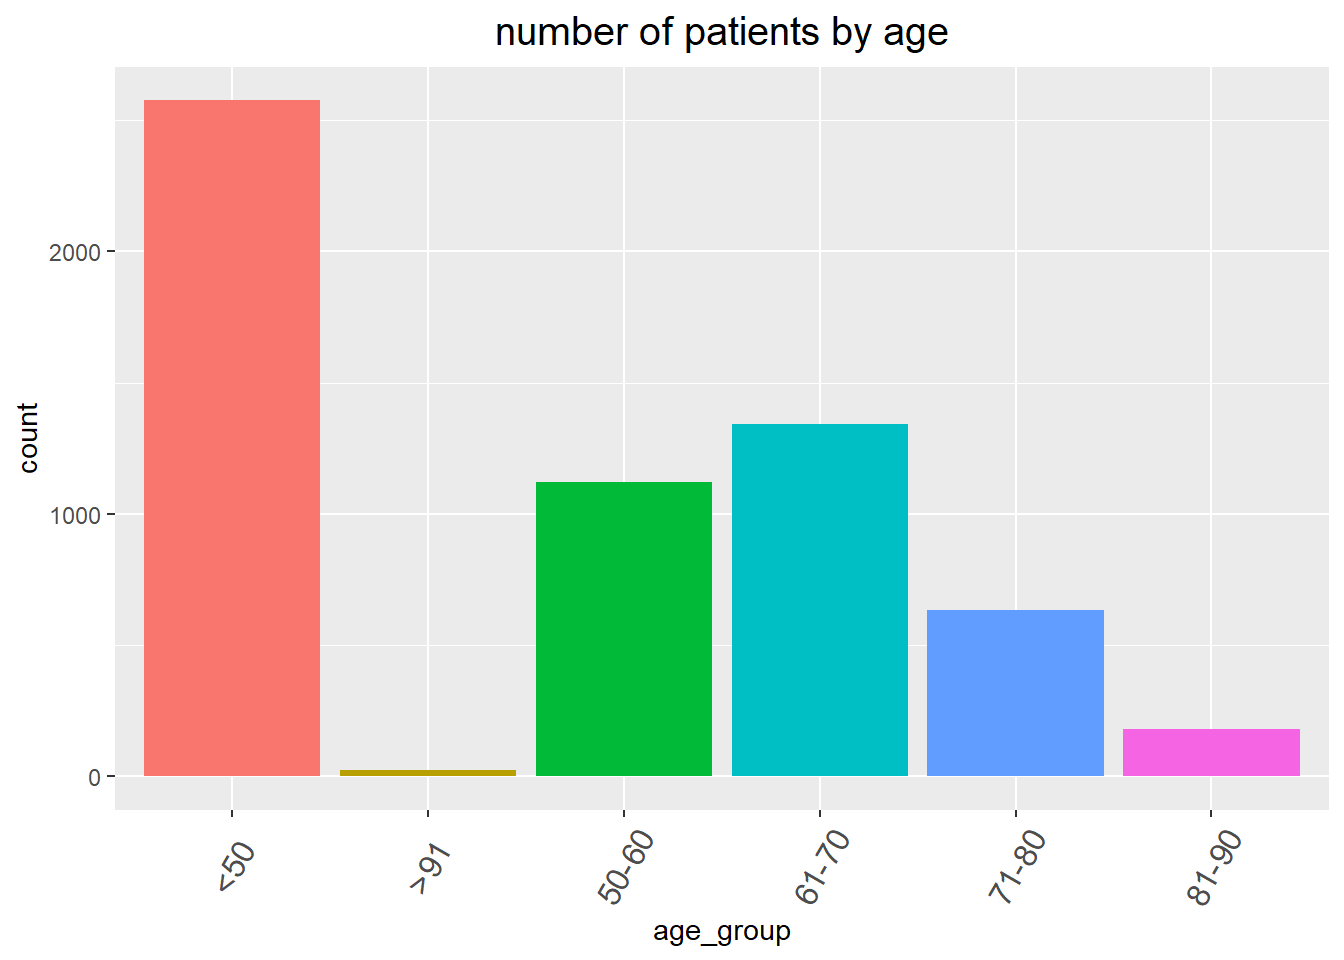
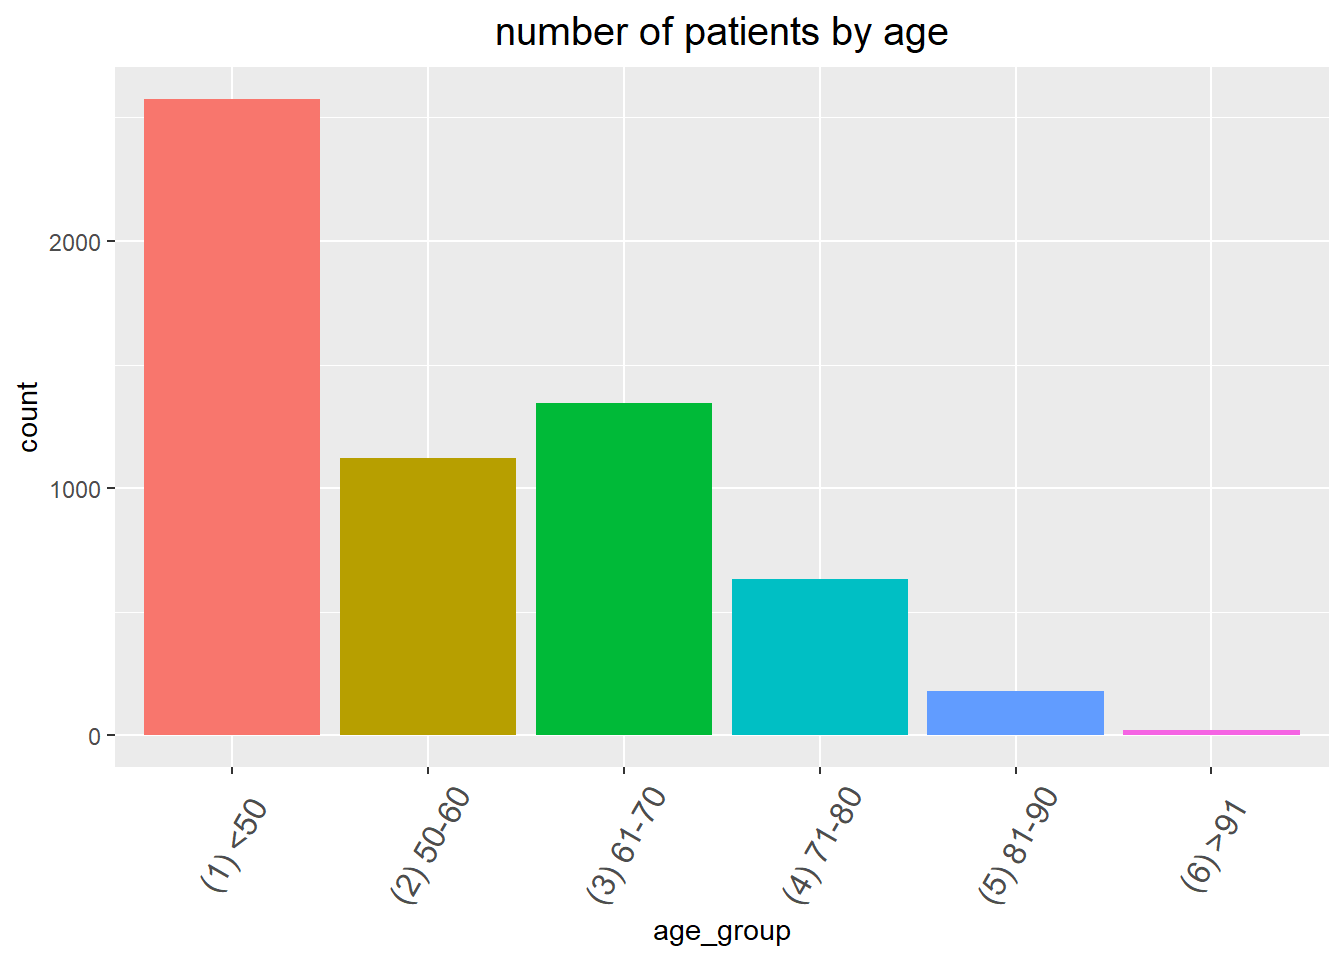
3/7/2022

diff --git a/docs/2022_Feb4.html b/docs/2022_Feb4.html
@@ -474,16 +474,16 @@ This reproducible <a href="https://rmarkdown.rstudio.com">R Markdown</a> analysi
 <div class="panel panel-default">
 <div class="panel-heading">
 <p class="panel-title">
-<a data-toggle="collapse" data-parent="#workflowr-checks" href="#strongRepositoryversionstrongahrefhttpsgithubcomhan16Collaborationstree7e83a630744600ccebd4cd4310cd0b8daa8d2c15targetblank7e83a63a"> <span class="glyphicon glyphicon-ok text-success" aria-hidden="true"></span> <strong>Repository version:</strong> <a href="https://github.com/han16/Collaborations/tree/7e83a630744600ccebd4cd4310cd0b8daa8d2c15" target="_blank">7e83a63</a> </a>
+<a data-toggle="collapse" data-parent="#workflowr-checks" href="#strongRepositoryversionstrongahrefhttpsgithubcomhan16Collaborationstree6b7dda0b44b13ae4c43b1514b40e0a5aa27f3218targetblank6b7dda0a"> <span class="glyphicon glyphicon-ok text-success" aria-hidden="true"></span> <strong>Repository version:</strong> <a href="https://github.com/han16/Collaborations/tree/6b7dda0b44b13ae4c43b1514b40e0a5aa27f3218" target="_blank">6b7dda0</a> </a>
 </p>
 </div>
[2 lines of base64/hex data omitted]
 <div class="panel-body">
 <p>
 Great! You are using Git for version control. Tracking code development and connecting the code version to the results is critical for reproducibility.
 </p>
 <p>
-The results in this page were generated with repository version <a href="https://github.com/han16/Collaborations/tree/7e83a630744600ccebd4cd4310cd0b8daa8d2c15" target="_blank">7e83a63</a>. See the <em>Past versions</em> tab to see a history of the changes made to the R Markdown and HTML files.
+The results in this page were generated with repository version <a href="https://github.com/han16/Collaborations/tree/6b7dda0b44b13ae4c43b1514b40e0a5aa27f3218" target="_blank">6b7dda0</a>. See the <em>Past versions</em> tab to see a history of the changes made to the R Markdown and HTML files.
 </p>
 <p>
 Note that you need to be careful to ensure that all relevant files for the analysis have been committed to Git prior to generating the results (you can use <code>wflow_publish</code> or <code>wflow_git_commit</code>). workflowr only checks the R Markdown file, but you know if there are other scripts or data files that it depends on. Below is the status of the Git repository when the results were generated:
@@ -492,11 +492,7 @@ Note that you need to be careful to ensure that all relevant files for the analy
 Ignored files:
     Ignored:    analysis/.Rhistory
 
-Untracked files:
-    Untracked:  analysis/2022_Mar1.Rmd
-
 Unstaged changes:
-    Modified:   analysis/2022.Rmd
     Modified:   analysis/2022_Feb4.Rmd
 
 </code></pre>
@@ -536,6 +532,40 @@ Message
 </tr>
 </thead>
 <tbody>
+<tr>
+<td>
+Rmd
+</td>
+<td>
+<a href="https://github.com/han16/Collaborations/blob/6b7dda0b44b13ae4c43b1514b40e0a5aa27f3218/analysis/2022_Feb4.Rmd" target="_blank">6b7dda0</a>
+</td>
+<td>
+Han
+</td>
+<td>
+2022-03-07
+</td>
+<td>
+3/7/2022
+</td>
+</tr>
+<tr>
+<td>
+html
+</td>
+<td>
+<a href="https://rawcdn.githack.com/han16/Collaborations/6b7dda0b44b13ae4c43b1514b40e0a5aa27f3218/docs/2022_Feb4.html" target="_blank">6b7dda0</a>
+</td>
+<td>
+Han
+</td>
+<td>
+2022-03-07
+</td>
+<td>
+3/7/2022
+</td>
+</tr>
 <tr>
 <td>
 Rmd
@@ -2145,7 +2175,8 @@ count
 <tbody>
 <tr>
 <td style="text-align:left;">
-&lt;50
+<ol style="list-style-type: decimal">
+<li>&lt;50
 </td>
 <td style="text-align:right;">
 2576
@@ -2153,7 +2184,8 @@ count
 </tr>
 <tr>
 <td style="text-align:left;">
-50-60
+<ol start="2" style="list-style-type: decimal">
+<li>50-60
 </td>
 <td style="text-align:right;">
 1122
@@ -2161,7 +2193,8 @@ count
 </tr>
 <tr>
 <td style="text-align:left;">
-61-70
+<ol start="3" style="list-style-type: decimal">
+<li>61-70
 </td>
 <td style="text-align:right;">
 1343
@@ -2169,7 +2202,8 @@ count
 </tr>
 <tr>
 <td style="text-align:left;">
-71-80
+<ol start="4" style="list-style-type: decimal">
+<li>71-80
 </td>
 <td style="text-align:right;">
 634
@@ -2177,7 +2211,8 @@ count
 </tr>
 <tr>
 <td style="text-align:left;">
-81-90
+<ol start="5" style="list-style-type: decimal">
+<li>81-90
 </td>
 <td style="text-align:right;">
 179
@@ -2185,7 +2220,8 @@ count
 </tr>
 <tr>
 <td style="text-align:left;">
-&gt;91
+<ol start="6" style="list-style-type: decimal">
+<li>&gt;91
 </td>
 <td style="text-align:right;">
 22
@@ -2193,7 +2229,13 @@ count
 </tr>
 </tbody>
 </table>
-</div>
+</div></li>
+</ol></li>
+</ol></li>
+</ol></li>
+</ol></li>
+</ol></li>
+</ol>
 <br>
 <p>
 <button type="button" class="btn btn-default btn-workflowr btn-workflowr-sessioninfo" data-toggle="collapse" data-target="#workflowr-sessioninfo" style="display: block;">
